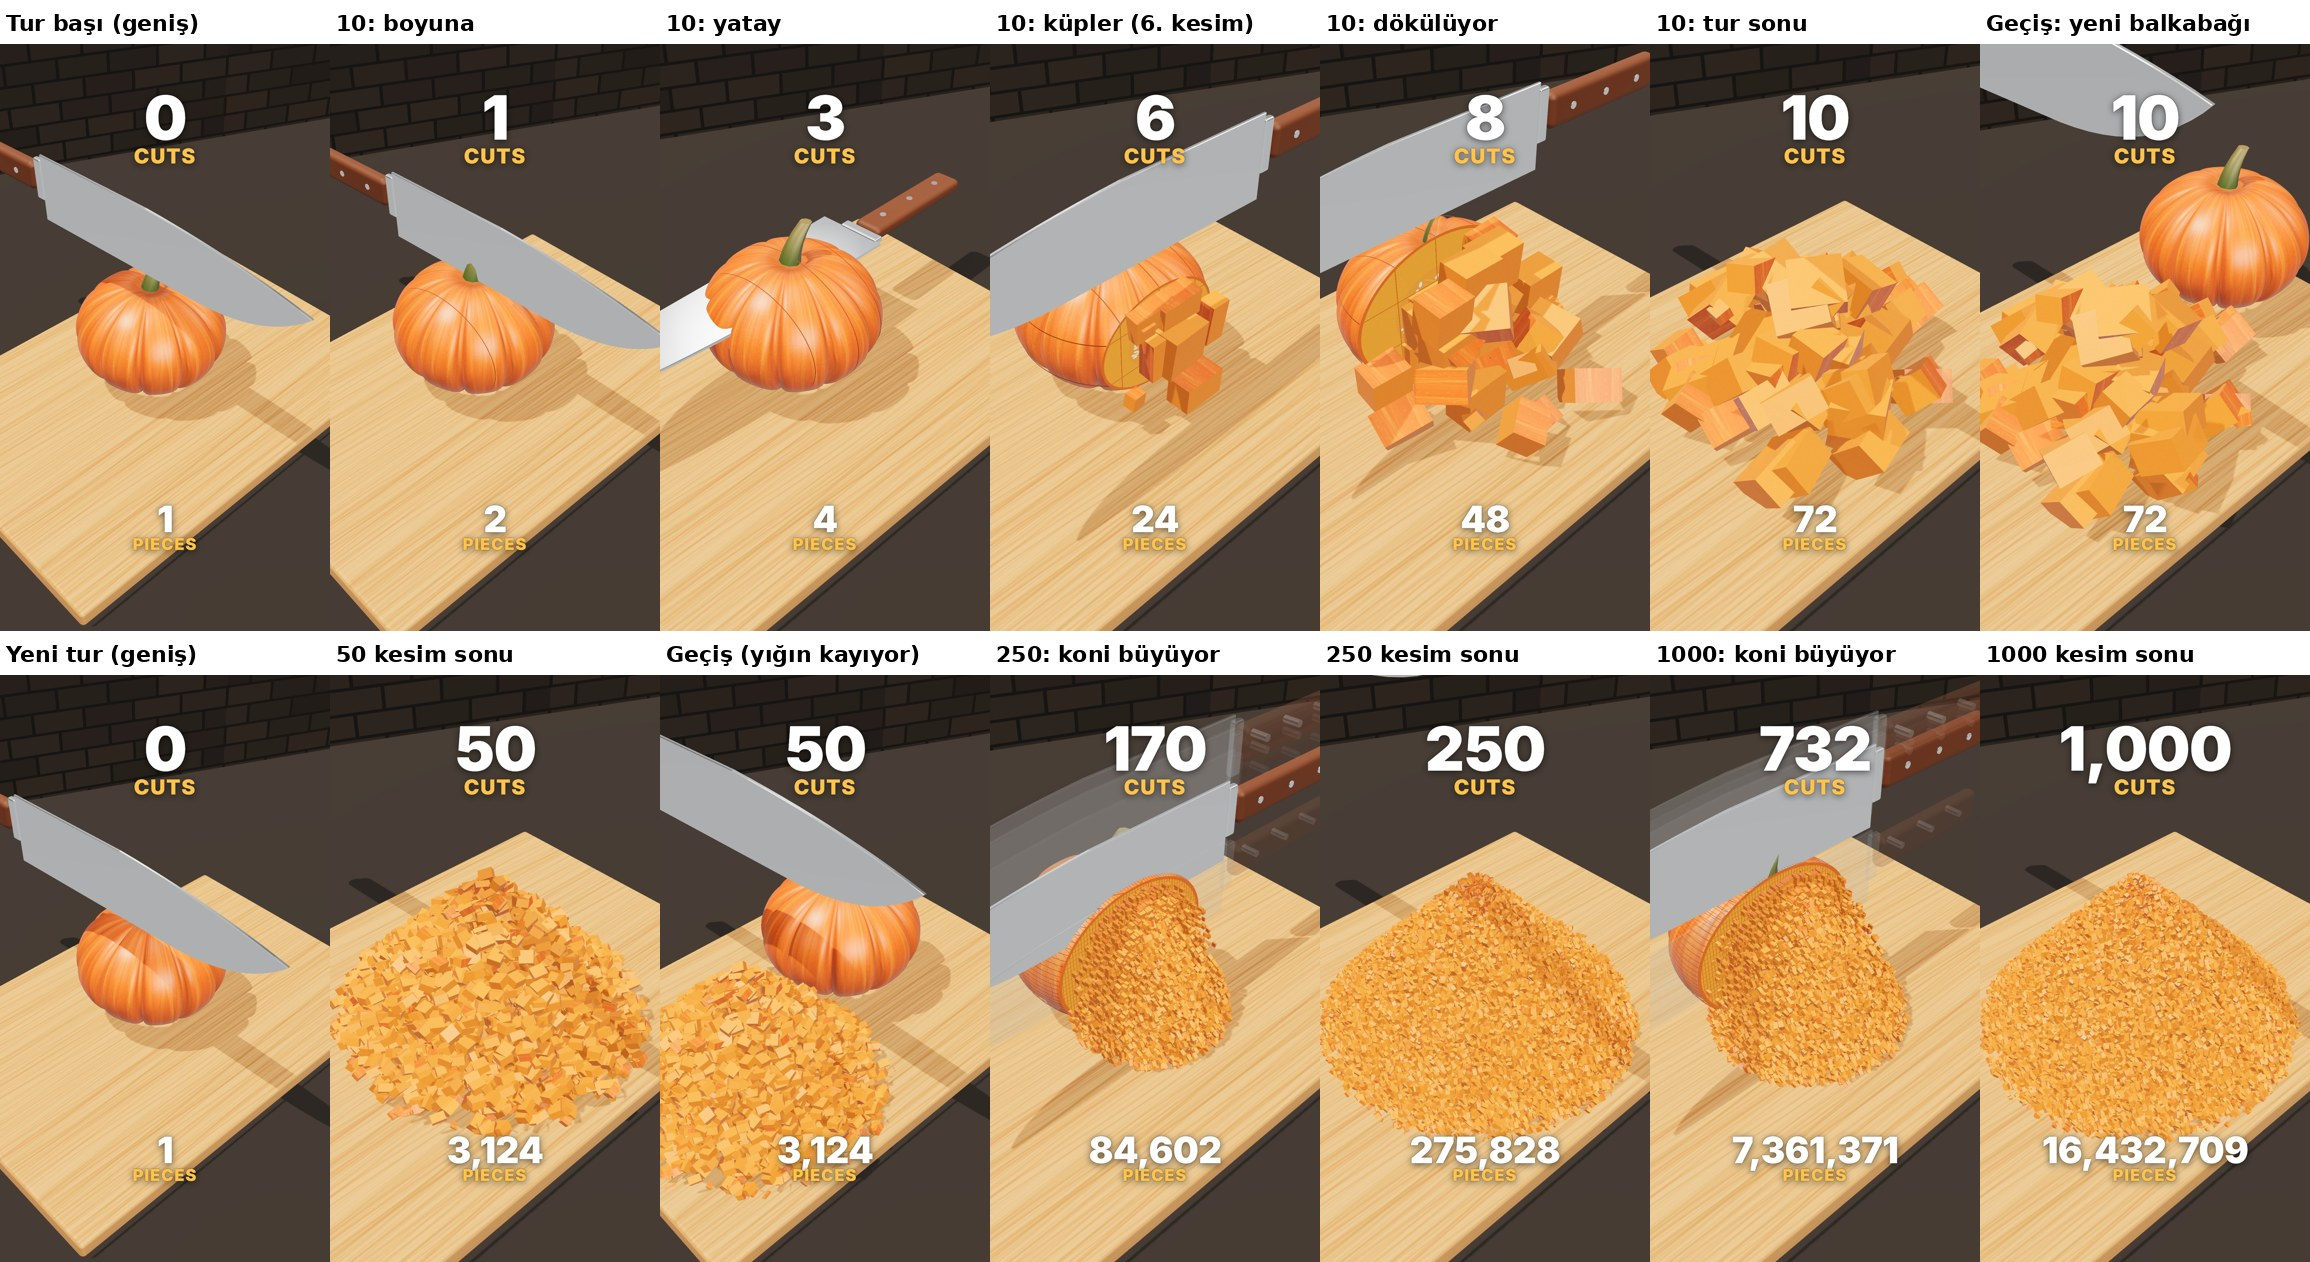
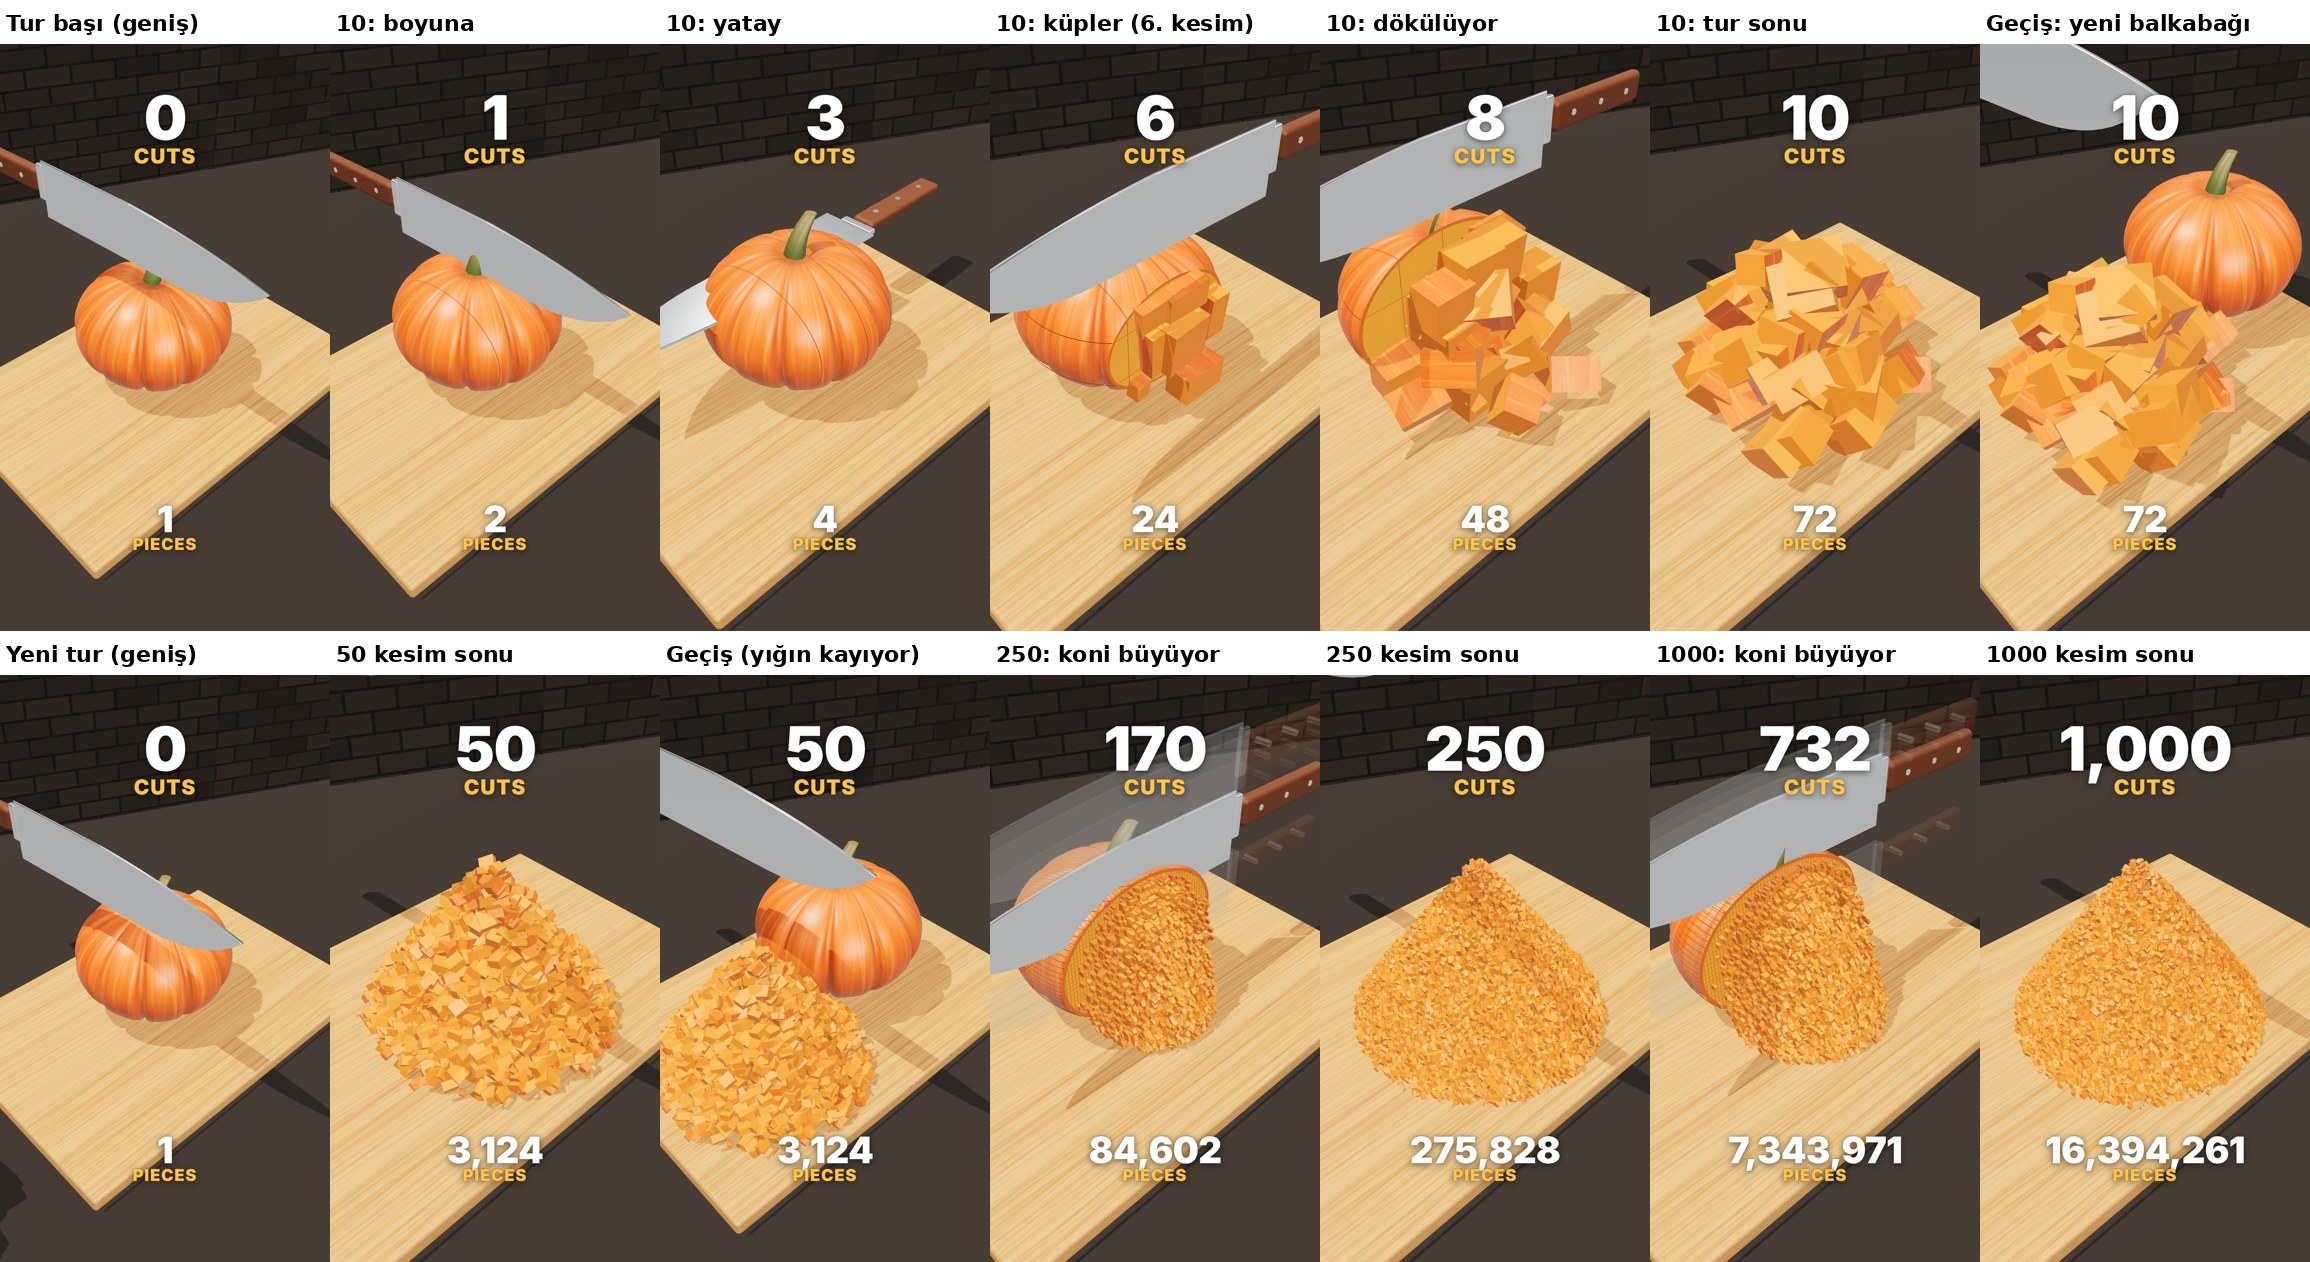
Pumpkin: bigger, wider camera, pile kept inside the frame
Claude-Session: https://claude.ai/code/session_01Ro5VQJpaLhF8Rr21k8EMLG

Changed region(s): [[0.0, 0.5254, 1.0, 1.0], [0.0, 0.0309, 1.0, 0.5254], [0.0, 0.309, 0.1558, 0.4945]]

diff --git a/offthebooks/satisfying/pumpkin.html b/offthebooks/satisfying/pumpkin.html
@@ -24,7 +24,7 @@ import { RoundedBoxGeometry } from 'three/addons/geometries/RoundedBoxGeometry.j
 import { RoomEnvironment } from 'three/addons/environments/RoomEnvironment.js';
 
 const W = 1080, H = 1920, FPS = 30;
-const RX = 1.5, RY = 1.12, RZ = 1.5;               // pumpkin, upright, stem on top: half length (x), half height (y), half depth (z); rests on y = 0
+const RX = 1.85, RY = 1.36, RZ = 1.85;               // pumpkin, upright, stem on top: half length (x), half height (y), half depth (z); rests on y = 0
 const clamp = (x, a = 0, b = 1) => Math.min(b, Math.max(a, x));
 const lerp = (a, b, x) => a + (b - a) * x;
 const easeOut = x => 1 - Math.pow(1 - clamp(x), 3), easeIn = x => Math.pow(clamp(x), 3), easeInOut = x => (x = clamp(x), x < .5 ? 4 * x * x * x : 1 - Math.pow(-2 * x + 2, 3) / 2);
@@ -93,7 +93,7 @@ r3.toneMapping = THREE.ACESFilmicToneMapping; r3.toneMappingExposure = 1.0; r3.o
 document.getElementById('wrap').prepend(r3.domElement);
 const scene = new THREE.Scene(); scene.background = new THREE.Color(0x15100c);
 scene.environment = new THREE.PMREMGenerator(r3).fromScene(new RoomEnvironment(), .04).texture; scene.environmentIntensity = .55;
-const BASE_FOV = 41, CAM = new THREE.Vector3(-3.9, 11.2, 11.4), LOOK = new THREE.Vector3(.3, .8, 0);
+const BASE_FOV = 48, CAM = new THREE.Vector3(-3.9, 11.2, 11.4), LOOK = new THREE.Vector3(.3, .8, 0);
 const cam = new THREE.PerspectiveCamera(BASE_FOV, W / H, .1, 200); cam.position.copy(CAM); cam.lookAt(LOOK);
 const rig = new THREE.Group(); rig.rotation.y = .44; scene.add(rig);
 
@@ -151,7 +151,7 @@ const bractGeo = new THREE.CylinderGeometry(.09, .16, 1, 8, 4);
 { const p = bractGeo.attributes.position, col = [], a = new THREE.Color('#4a5a22'), b = new THREE.Color('#7a6a3a'), c = new THREE.Color();
   for (let i = 0; i < p.count; i++) { const y = p.getY(i); p.setX(i, p.getX(i) + .25 * (y + .5) ** 2); c.copy(a).lerp(b, clamp(y + .5)); col.push(c.r, c.g, c.b); }
   bractGeo.setAttribute('color', new THREE.Float32BufferAttribute(col, 3)); bractGeo.computeVertexNormals(); }
-const BRACTS = [new THREE.Matrix4().compose(new THREE.Vector3(.04, 2 * RY - .08 + .3, 0), new THREE.Quaternion().setFromAxisAngle(new THREE.Vector3(0, 0, 1), -.15), new THREE.Vector3(1.1, .62, 1.1))];
+const BRACTS = [new THREE.Matrix4().compose(new THREE.Vector3(.04, 2 * RY - .08 + .3, 0), new THREE.Quaternion().setFromAxisAngle(new THREE.Vector3(0, 0, 1), -.15), new THREE.Vector3(1.3, .75, 1.3))];
 
 // geometry: ellipsoid with its poles on the x axis; cut lines are thin open cylinders around the melon
 const melonGeo = new THREE.SphereGeometry(1, 160, 96);              // upright: poles on y, stem on top
@@ -234,7 +234,7 @@ function prepCells(r) {
   // further out, so nothing has to fly upwards much.
   const all = r.cells.flat(), N = all.length;
   const vol = all.reduce((v, c) => v + c.sx * c.sy * c.sz, 0) / .7;
-  const H = 2 * RY * 1.15, R = Math.min(2.4, Math.sqrt(3 * vol / (Math.PI * H))), CZ = .85;
+  const H = 2 * RY * 1.15, R = Math.min(2.25, Math.sqrt(3 * vol / (Math.PI * H))), CZ = .85;
   let k = 0;
   for (const row of r.cells) {
     const order = [...row].sort((p, q) => q.y - p.y);
